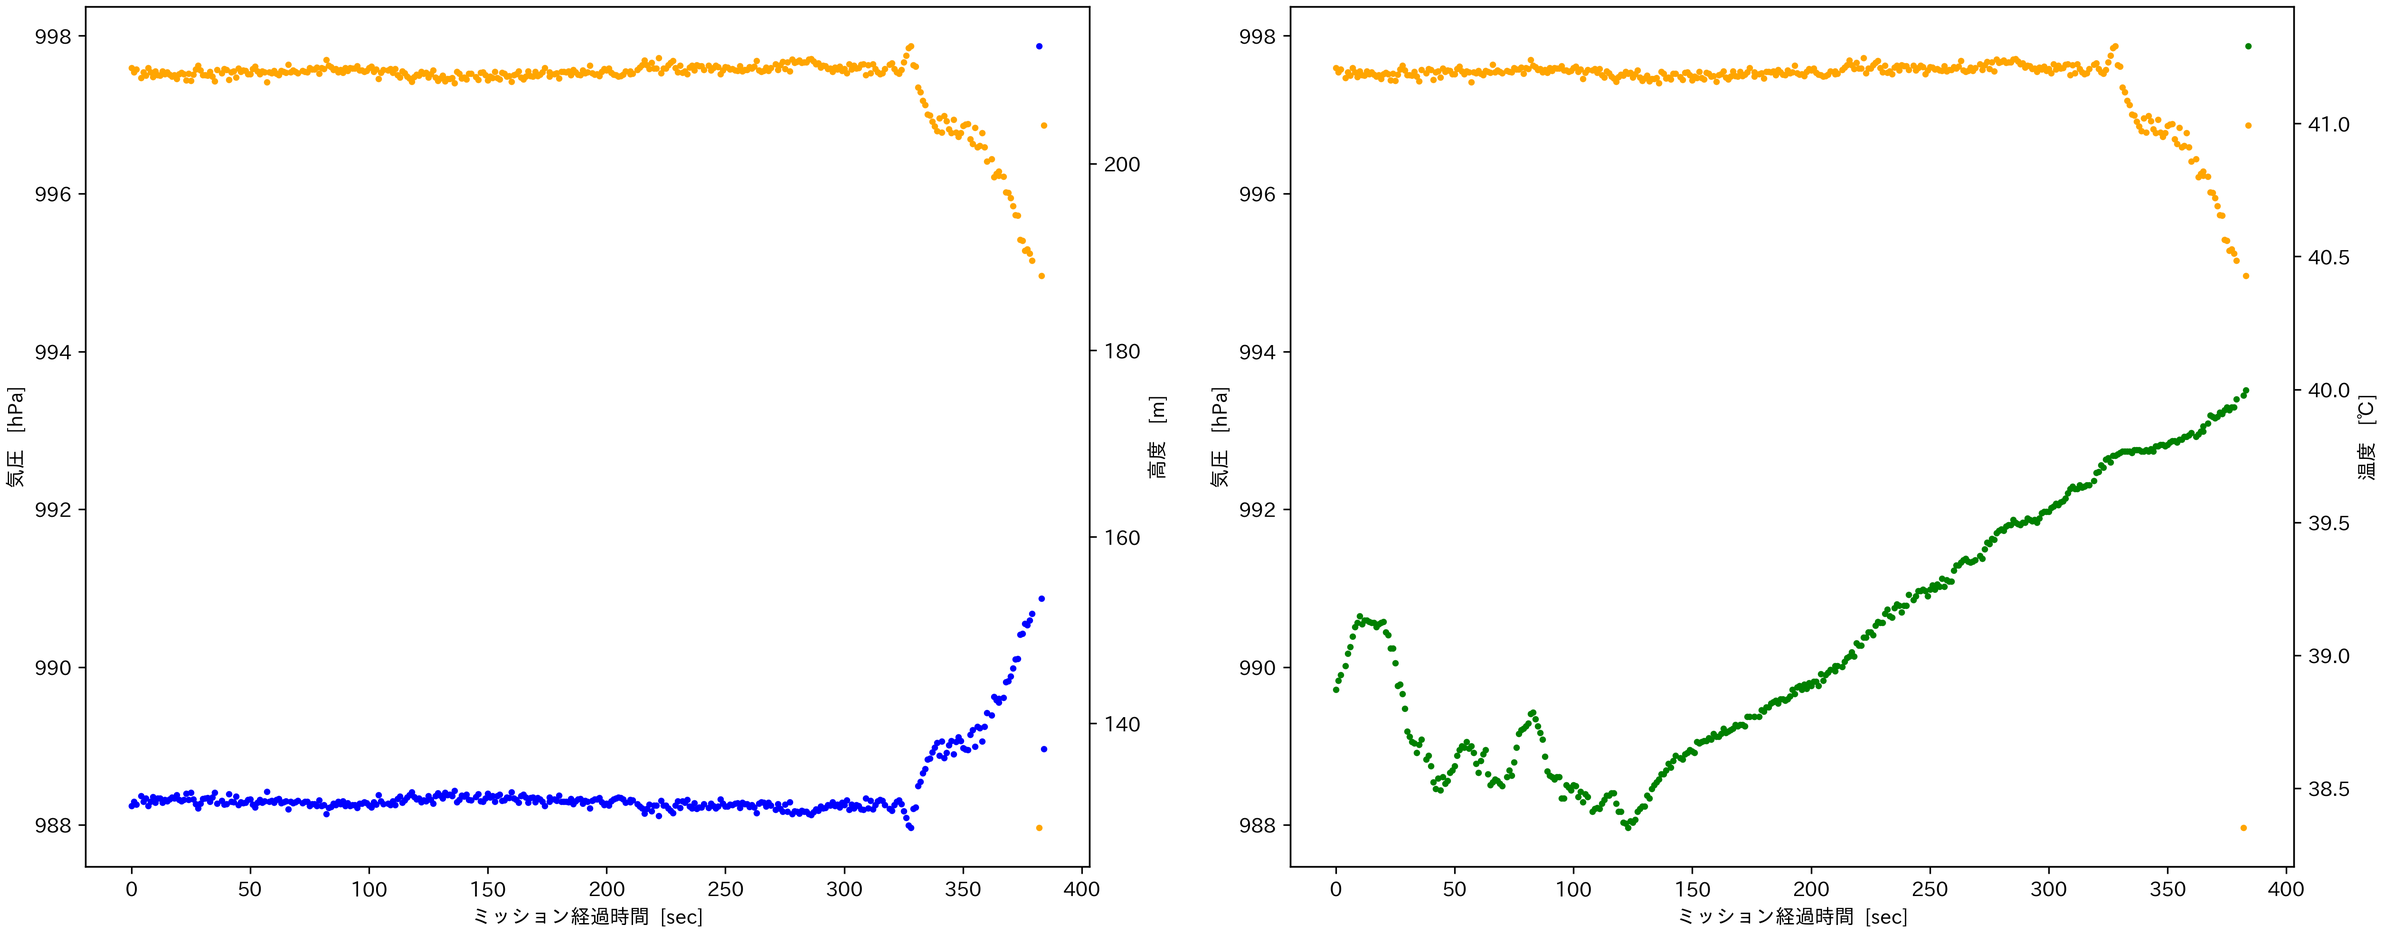
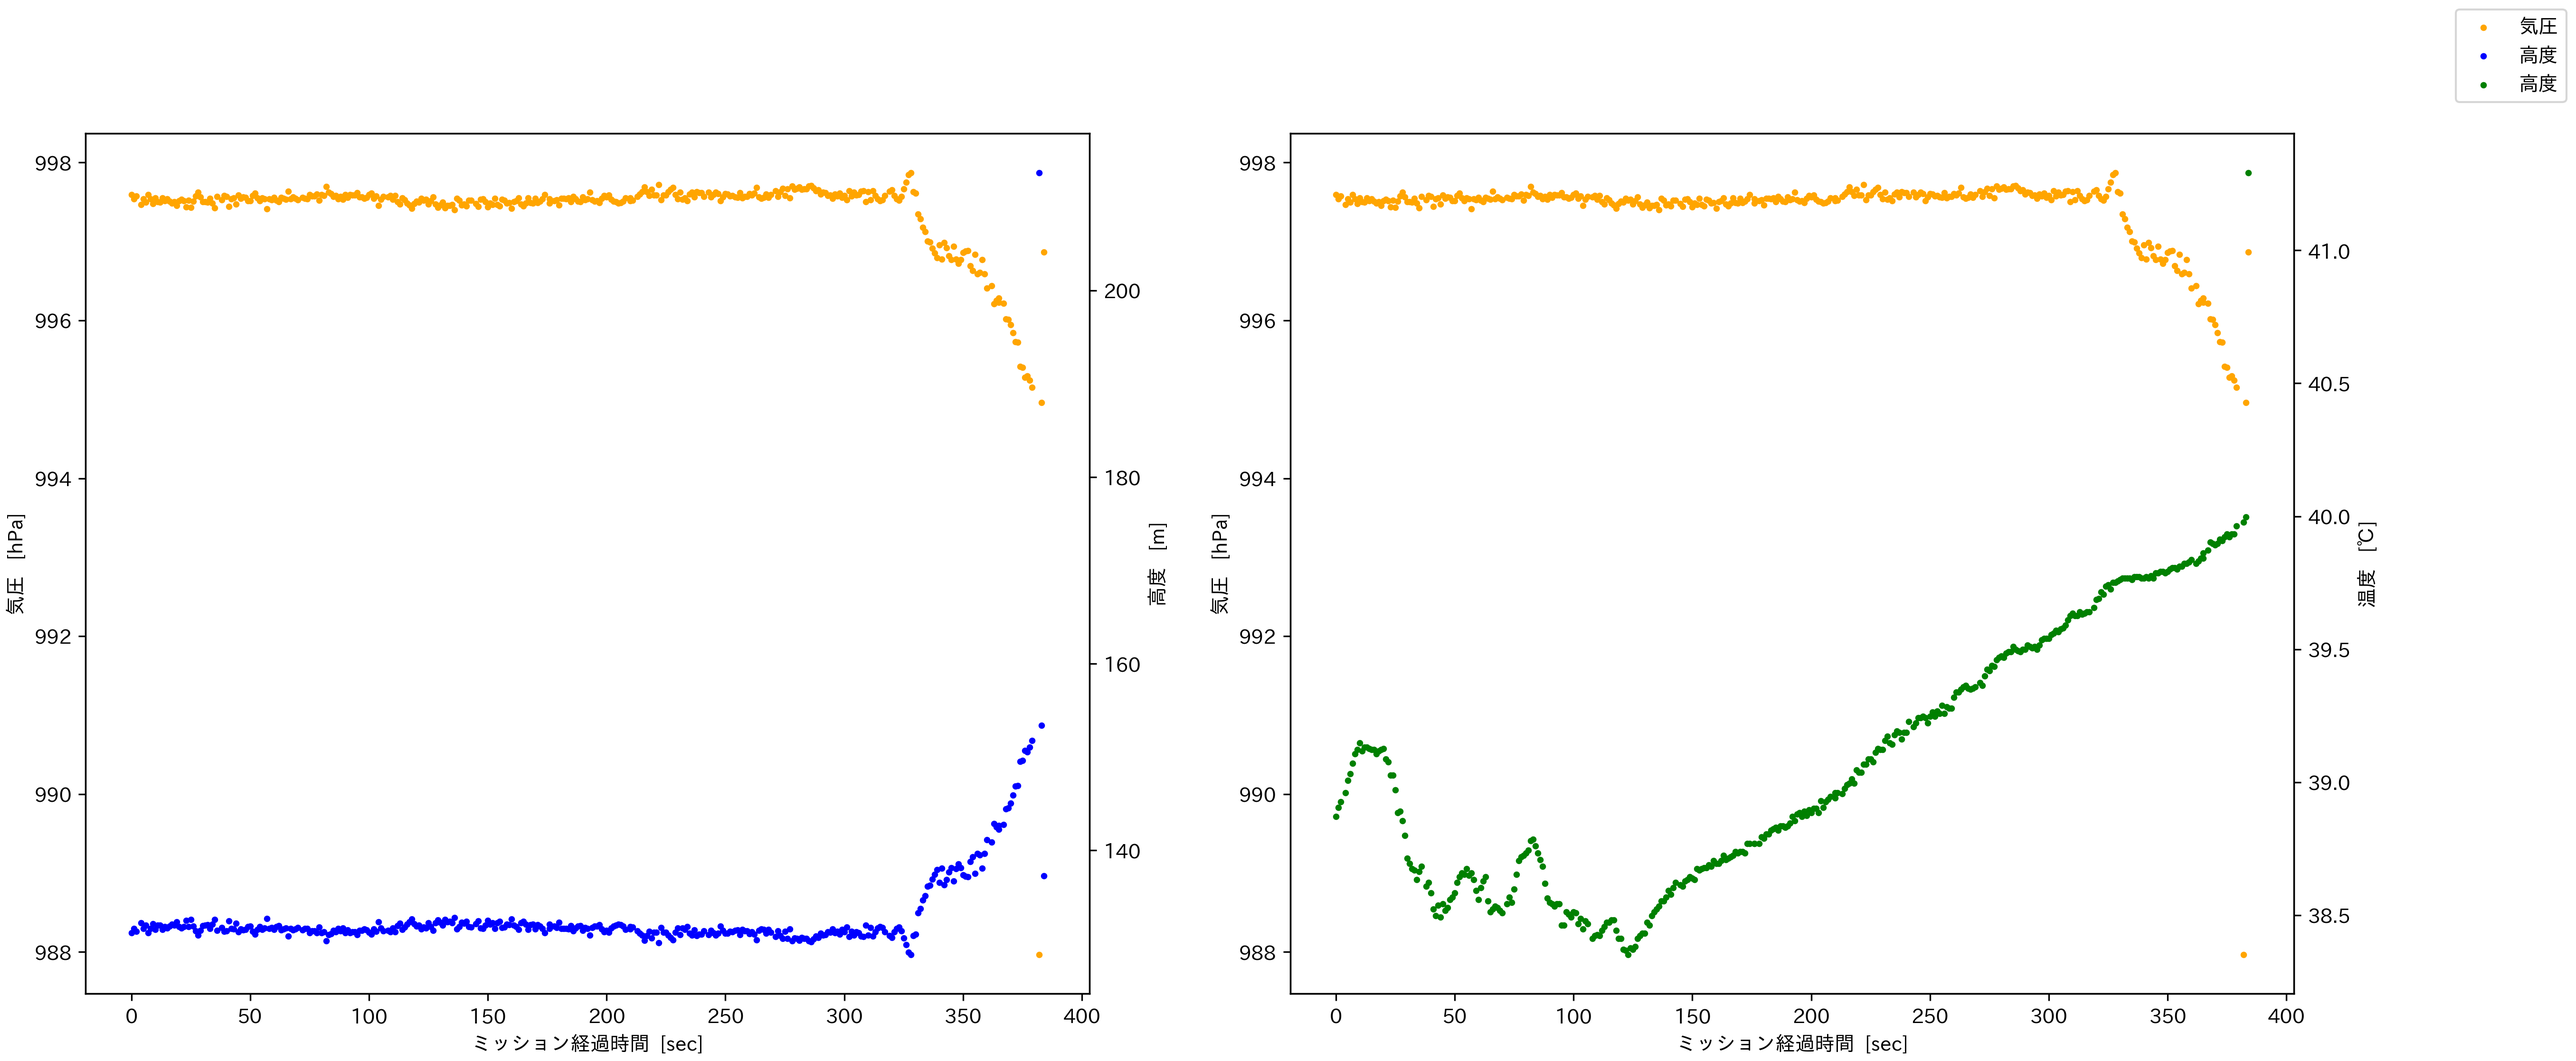
add legend and fix the unit of gyro

diff --git a/data/precursor/analysis.py b/data/precursor/analysis.py
@@ -56,40 +56,45 @@ fig.show()
 # %% plotting Time vs Pressure and Temperature
 fig, axes_press = plt.subplots()
 axes_temp = axes_press.twinx()
-axes_press.scatter(time_mission, pressure, s=5, color="orange")
-axes_temp.scatter(time_mission, temperature, s=5, color="green")
+axes_press.scatter(time_mission, pressure, s=5, color="orange", label="気圧")
+axes_temp.scatter(time_mission, temperature, s=5, color="green", label="温度")
 axes_press.set_xlabel("ミッション経過時間  [sec]")
 axes_press.set_ylabel("気圧   [hPa]")
 axes_temp.set_ylabel("温度   [℃]")
 
+fig.legend()
 fig.show()
 
 # %% plotting Time vs Altitude and Pressure
 fig, axes_altitude = plt.subplots()
 axes_press = axes_altitude.twinx()
-axes_altitude.scatter(time_mission, altitude, s=5)
-axes_press.scatter(time_mission, pressure, s=5, color="orange")
+axes_altitude.scatter(time_mission, altitude, s=5, color="blue", label="高度")
+axes_press.scatter(time_mission, pressure, s=5, color="orange", label="気圧")
 axes_altitude.set_xlabel("ミッション経過時間  [sec]")
 axes_altitude.set_ylabel("高度   [m]")
 axes_press.set_ylabel("気圧   [hPa]")
+
+fig.legend()
+fig.show()
 
 # %%
 fig, axes = plt.subplots(1, 2, figsize=(20, 8))
 
 axes_altitude = axes[0].twinx()
-axes[0].scatter(time_mission, pressure, s=5, color="orange")
-axes_altitude.scatter(time_mission, altitude, s=5, color="blue")
+axes[0].scatter(time_mission, pressure, s=5, color="orange", label="気圧")
+axes_altitude.scatter(time_mission, altitude, s=5, color="blue", label="高度")
 axes[0].set_xlabel("ミッション経過時間  [sec]")
 axes[0].set_ylabel("気圧   [hPa]")
 axes_altitude.set_ylabel("高度   [m]")
 
 axes_temp = axes[1].twinx()
-axes[1].scatter(time_mission, pressure, s=5, color="orange")
-axes_temp.scatter(time_mission, temperature, s=5, color="green")
+axes[1].scatter(time_mission, pressure, s=5, color="orange", label="気圧")
+axes_temp.scatter(time_mission, temperature, s=5, color="green", label="高度")
 axes[1].set_xlabel("ミッション経過時間  [sec]")
 axes[1].set_ylabel("気圧   [hPa]")
 axes_temp.set_ylabel("温度   [℃]")
 
+fig.legend()
 fig.savefig("press-alitude&temp.png", bbox_inches="tight", pad_inches=0.05)
 fig.show()
 
